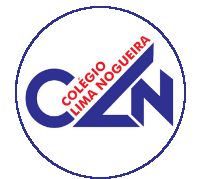
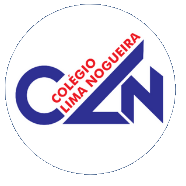
Add files via upload

Changed region(s): [[0.0269, 0.0, 0.9677, 1.0], [0.0806, 0.2235, 0.1075, 0.2793], [0.0538, 0.2793, 0.0806, 0.3352]]

diff --git a/style.css b/style.css
@@ -19,9 +19,7 @@
     height: 50px;
     width: 100%;
     gap: 3rem;
-    padding: 20px 50px 20px 50px;  
-
-      
+    padding: 20px 50px 20px 50px;       
 }
 .social-icones{
    display: flex;
@@ -96,6 +94,7 @@ nav{
   height: 24vh; 
   width: 100%;
   margin-top: 0;
+  padding: 20px 50px 20px 50px;  
 
 }
 
@@ -104,8 +103,10 @@ nav{
   padding-right:1100px;
 }
 .logo img{
-  height: 140px;
-  width: 170px; 
+  height: 130px;
+  width: 130px; 
+  padding-top: 2vh;
+  
   cursor: pointer; 
 }
 .nav-list ul{  
@@ -235,7 +236,7 @@ nav{
 .sub-menu a::after {
   content: none !important;
 }
-@media screen and (max-width: 768px) {
+@media screen and (max-width: 999px) {
 
   .nav-list{
     display: flex;
@@ -245,17 +246,20 @@ nav{
     justify-content: center;
     left: 0;  
     right: 0;
-    top: 31.5vh;
+    top: 27.5vh;
     height:68vh;
     width: 100%;
-    background-color: #cc00ff ;
+    background-color: #516D73;
     transform: translateX(100%);
     transition: transform 0.3s ease-in;
     
   }
+
   
-  .nav-bar{
-    display: none;
+  
+  nav{
+    height: 20vh;
+    
   }
 
   .logo{
@@ -276,11 +280,11 @@ nav{
     top: 100px;
   }
   .nav-list ul {
-  flex-direction: column;
-  justify-content: center;
-  align-items: center;
-  padding-left: 0;  
-  gap: 30px;
+    flex-direction: column;
+    justify-content: center;
+    align-items: center;
+    padding-left: 0;  
+    gap: 30px;
 }
   .nav-list li{
     margin-left: 0;
@@ -293,38 +297,45 @@ nav{
   }
 
   .login{  
-  border-radius: 10px;
-  width: 20vw;
-  border: none;
-  max-width: 100%;
-  font-size: 17px;
+    border-radius: 10px;
+    width: 20vw;
+    border: none;
+    max-width: 100%;
+    font-size: 17px;
 
 }
 .texto-login{
   font-size: 14px;
 }
-@keyframes navLinkFade{
-    from{
-        opacity: 0;
-        transform: translateX(50px);
-    }
-    to {
+}
 
-        opacity:1;
-        transform: translateX(0);
-    }
+@media screen and (max-width: 768px) {
+  .login{  
+    width: 25vw;
+  }
+  .nav-list{ 
+    top: 28.5vh;
+}
+@keyframes navLinkFade{
+  from{
+    opacity: 0;
+    transform: translateX(50px);
+}
+  to {
+
+    opacity:1;
+    transform: translateX(0);
+}
     
 }
-
-}
 .mobile-menu.ativo .line1{
-    transform: rotate(-45deg) translate(-8px, 8px);
+  transform: rotate(-45deg) translate(-8px, 8px);
 
 }
 .mobile-menu.ativo .line2{
-    opacity: 0;
+  opacity: 0;
     
 }
 .mobile-menu.ativo .line3{
-    transform: rotate(45deg) translate(-5px, -7px);
+  transform: rotate(45deg) translate(-5px, -7px);
 }
